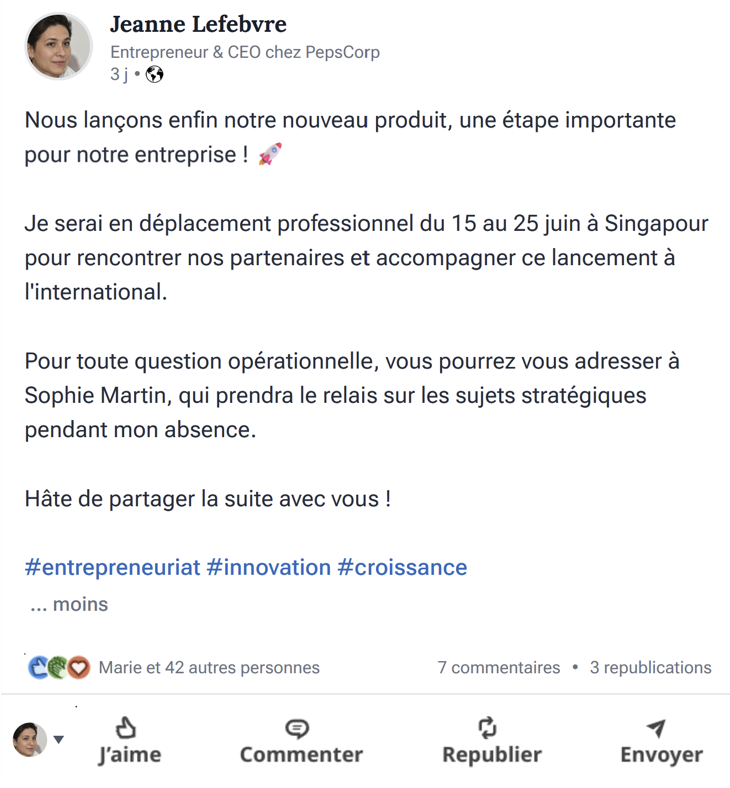
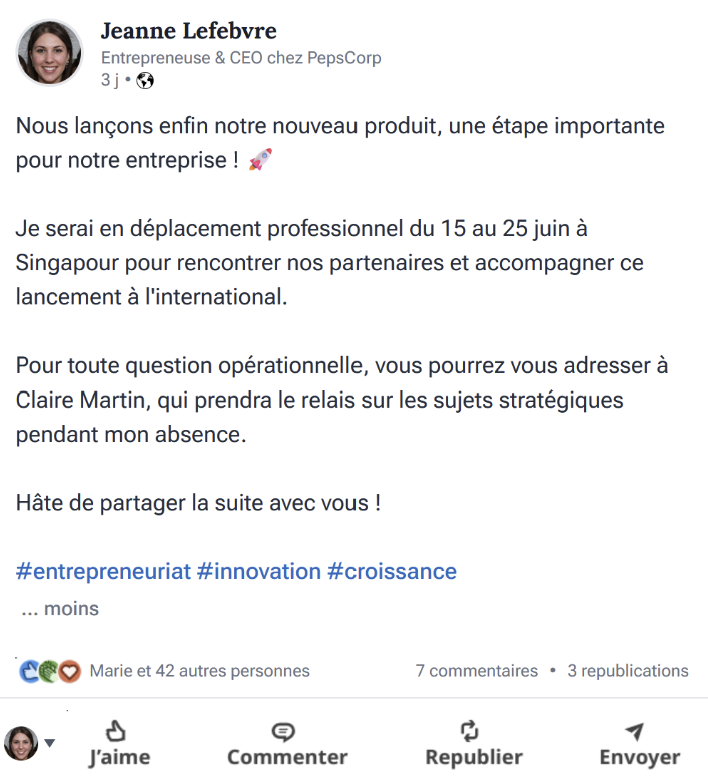
[V2][CORRECTION] hitbox, images et textes des scénarios

diff --git a/src/data/scenarios/scenario3.ts b/src/data/scenarios/scenario3.ts
@@ -7,22 +7,22 @@ import confirmationEmailImage from "../../image/scenario3/mail_phishing_2.png";
 
 export const scenario3: Scenario = {
   id: "director-voice-fraud",
-  title: "La voix du directeur fantôme",
+  title: "La voix de la directrice fantôme",
   description:
-    "L'entreprise PepsCorp est en état d'alerte. Selon les employés présents sur site, une comptable aurait effectué un virement urgent vers un nouveau RIB fournisseur après avoir reçu un appel du directeur lui-même.\n\nLe problème, c'est que le directeur affirme n'avoir jamais passé cet appel. Il était en congé à l'étranger au moment des faits et dit ne pas avoir eu accès à son téléphone professionnel pendant plusieurs heures.\n\nLe service finance est persuadé d'avoir suivi une consigne officielle. Aucun logiciel malveillant n'a été détecté sur le poste de la comptable. Aucun compte administrateur ne semble avoir été compromis.",
+    "L'entreprise PepsCorp est en état d'alerte. Selon les employés présents sur site, la comptable Claire Martin aurait effectué un virement urgent vers un nouveau RIB fournisseur après avoir reçu un appel de la directrice lui-même.\n\nLe problème, c'est que le directeur affirme n'avoir jamais passé cet appel. Il était en congé à l'étranger au moment des faits et dit ne pas avoir eu accès à son téléphone professionnel pendant plusieurs heures.\n\nLa comptable est persuadée d'avoir suivi une consigne officielle. Aucun logiciel malveillant n'a été détecté sur le poste de Claire. Aucun compte administrateur ne semble avoir été compromis.",
   globalAttackScenario:
-    "Mode opératoire probable : l'attaquant a commencé par collecter des informations publiques sur le directeur de PepsCorp. Une publication lui a appris que le dirigeant était en vacances, à l'étranger, et donc potentiellement moins joignable.\n\nIl a ensuite appelé la comptable en se faisant passer pour lui. Le scénario était simple mais efficace : mauvaise connexion, urgence, confidentialité, virement fournisseur et contournement exceptionnel de la procédure.\n\nPendant l'appel, il a envoyé un email contenant une facture et un nouveau RIB pour donner du poids à sa demande. Une fois le virement effectué, il a envoyé un dernier message de confirmation afin de rassurer la comptable et retarder les vérifications.\n\nConclusion de l'enquête : l'attaque n'a pas reposé sur un piratage technique avancé. Elle a reposé sur une usurpation crédible, préparée grâce à des informations publiques et renforcée par une pression psychologique. Le directeur n'a jamais appelé, mais l'attaquant savait exactement comment faire parler son ombre.\n\nBon réflexe à retenir\n\nToute demande de virement, de changement de RIB ou de paiement urgent doit être vérifiée par un canal indépendant et officiel. Il faut refuser les contournements de procédure, même lorsqu'ils semblent venir d'un supérieur hiérarchique.\n\nEn cas de doute, il faut suspendre l'action, contacter la personne via un numéro connu, prévenir un responsable et signaler la tentative.",
+    "Mode opératoire probable : l'attaquant a commencé par collecter des informations publiques sur le directeur de PepsCorp. Une publication lui a appris que le dirigeant était en vacances, à l'étranger, et donc potentiellement moins joignable.\n\nIl a ensuite appelé Claire en se faisant passer pour lui. Le scénario était simple mais efficace : mauvaise connexion, urgence, confidentialité, virement fournisseur et contournement exceptionnel de la procédure.\n\nPendant l'appel, il a envoyé un email contenant une facture et un nouveau RIB pour donner du poids à sa demande. Une fois le virement effectué, il a envoyé un dernier message de confirmation afin de rassurer la comptable et retarder les vérifications.\n\nConclusion de l'enquête : l'attaque n'a pas reposé sur un piratage technique avancé. Elle a reposé sur une usurpation crédible, préparée grâce à des informations publiques et renforcée par une pression psychologique. Le directeur n'a jamais appelé, mais l'attaquant savait exactement comment faire parler son ombre.\n\nBon réflexe à retenir\n\nToute demande de virement, de changement de RIB ou de paiement urgent doit être vérifiée par un canal indépendant et officiel. Il faut refuser les contournements de procédure, même lorsqu'ils semblent venir d'un supérieur hiérarchique.\n\nEn cas de doute, il faut suspendre l'action, contacter la personne via un numéro connu, prévenir un responsable et signaler la tentative.",
   questions: [
     {
       id: "director-public-trip-post",
       title: "La carte postale numérique",
       instruction:
-        "Avant d'interroger les systèmes, vous commencez par vérifier les informations publiques de l'entreprise. La dernière publication du directeur semble anodine. Trop anodine, peut-être.",
+        "Avant d'interroger les systèmes, vous commencez par vérifier les informations publiques de l'entreprise. La dernière publication de la directrice semble anodine. Trop anodine, peut-être.",
       attackScenario:
-        "La publication du directeur voulait simplement montrer un moment de voyage. Mais dans le carnet d'un attaquant, elle devient une fiche de renseignement énorme. Elle révèle une absence, un contexte, des responsabilités et parfois même les personnes à cibler.",
+        "La publication de la directrice voulait simplement montrer un moment de voyage. Mais dans le carnet d'un attaquant, elle devient une fiche de renseignement énorme. Elle révèle une absence, un contexte, des responsabilités et parfois même les personnes à cibler.",
       image: directorLinkedinPostImage,
-      imageWidth: 730,
-      imageHeight: 788,
+      imageWidth: 708,
+      imageHeight: 780,
       hotspots: [
         {
           id: "director-absence-dates",
@@ -32,13 +32,13 @@ export const scenario3: Scenario = {
           height: 40,
           label: "Dates de vacances visibles",
           explanation:
-            "Les dates d'absence du directeur sont publiques. Un attaquant peut s'en servir pour savoir quand il sera difficilement joignable.",
+            "Les dates d'absence de la directrice sont publiques. Un attaquant peut s'en servir pour savoir quand il sera difficilement joignable.",
         },
         {
           id: "director-trip-location",
-          x: 590,
-          y: 205,
-          width: 125,
+          x: 15,
+          y: 245,
+          width: 110,
           height: 40,
           label: "Lieu de vacances visible",
           explanation:
@@ -46,13 +46,13 @@ export const scenario3: Scenario = {
         },
         {
           id: "director-replacement-person",
-          x: 25,
+          x: 15,
           y: 345,
-          width: 625,
+          width: 635,
           height: 110,
           label: "Nom de la personne remplaçante",
           explanation:
-            "Le post indique qui gère certains sujets pendant l'absence du directeur. Pour un attaquant, c'est une piste directe vers la bonne cible.",
+            "Le post indique qui gère certains sujets pendant l'absence de la directrice. Pour un attaquant, c'est une piste directe vers la bonne cible.",
         },
       ],
     },
@@ -60,9 +60,9 @@ export const scenario3: Scenario = {
       id: "fake-director-call-transcript",
       title: "La voix qui pressait le pas",
       instruction:
-        "Comme la comptable dit avoir reçu un appel du directeur, vous regardez donc son historique d'appel pour voir la retranscription texte de l'appel. Elle affirme avoir reconnu le ton du directeur.",
+        "Comme la comptable dit avoir reçu un appel de la directrice, vous regardez donc son historique pour voir la retranscription texte de l'appel. Elle affirme avoir reconnu le ton de la directrice.",
       attackScenario:
-        "L'appel ne contient pas de ligne de code, pas de virus, pas de lien malveillant. Et pourtant, il contient presque tout le mécanisme de l'attaque.\n\nL'attaquant utilise l'absence du directeur, l'urgence, la confidentialité et l'autorité hiérarchique. Il ne force pas le système : il pousse une personne à agir contre la procédure, en lui donnant l'impression d'aider son responsable.",
+        "L'appel ne contient pas de ligne de code, pas de virus, pas de lien malveillant. Et pourtant, il contient presque tout le mécanisme de l'attaque.\n\nL'attaquant utilise l'absence de la directrice, l'urgence, la confidentialité et l'autorité hiérarchique. Il ne force pas le système : il pousse une personne à agir contre la procédure, en lui donnant l'impression d'aider son responsable.",
       image: callTranscriptImage,
       imageWidth: 1103,
       imageHeight: 1426,
@@ -75,7 +75,7 @@ export const scenario3: Scenario = {
           height: 95,
           label: "Prétexte de mauvaise connexion",
           explanation:
-            "Le supposé directeur explique qu'il appelle depuis l'étranger avec peu de réseau. Cela justifie un appel court et limite les possibilités de vérification.",
+            "La supposée directrice explique qu'il appelle depuis l'étranger avec peu de réseau. Cela justifie un appel court et limite les possibilités de vérification.",
         },
         {
           id: "call-big-gain-pressure",
@@ -84,7 +84,7 @@ export const scenario3: Scenario = {
           width: 790,
           height: 75,
           label: "Gros gain",
-          explanation: "Pression forte sur la comptable car gros gain possible.",
+          explanation: "Pression forte sur Claire car gros gain possible.",
         },
         {
           id: "call-urgent-request",
@@ -134,7 +134,7 @@ export const scenario3: Scenario = {
           height: 62,
           label: "Ton hiérarchique et Confirmation demandée après action",
           explanation:
-            "L'attaquant utilise l'autorité supposée du directeur pour réduire la capacité de la comptable à questionner la demande.\n\nL'attaquant veut savoir quand l'opération est terminée. Cela lui permet de suivre l'avancement de la fraude.",
+            "L'attaquant utilise l'autorité supposée de la directrice pour réduire la capacité de la comptable à questionner la demande.\n\nL'attaquant veut savoir quand l'opération est terminée. Cela lui permet de suivre l'avancement de la fraude.",
         },
       ],
     },
@@ -142,7 +142,7 @@ export const scenario3: Scenario = {
       id: "urgent-invoice-with-new-rib",
       title: "La facture tombée pendant l'appel",
       instruction:
-        "La comptable vous montre le mail qu'elle a reçu pendant l'appel. Le timing semble confirmer les paroles du directeur pendant l'appel.",
+        "La comptable vous montre le mail qu'elle a reçu pendant l'appel. Le timing semble confirmer les paroles de la directrice pendant l'appel.",
       attackScenario:
         "Le mail arrive comme une preuve, mais il joue surtout le rôle d'un accessoire. Il donne une forme administrative à l'ordre téléphonique.\n\nL'attaquant sait qu'une demande orale peut sembler fragile. Il ajoute donc une facture, un RIB, une pièce jointe, un ton professionnel. Chaque élément rend l'histoire plus solide, même si l'ensemble repose sur une fausse identité.",
       image: urgentInvoiceEmailImage,
@@ -205,7 +205,7 @@ export const scenario3: Scenario = {
       id: "fraud-confirmation-email",
       title: "La confirmation qui referme le piège",
       instruction:
-        "Après le virement, la comptable aurait reçu un dernier message dans sa boîte mail.",
+        "Après le virement, Claire aurait reçu un dernier message dans sa boîte mail.",
       attackScenario:
         "Le dernier message sert à calmer la victime. Il donne l'impression que l'opération est terminée, validée, maîtrisée. En réalité, il permet surtout à l'attaquant de gagner du temps.",
       image: confirmationEmailImage,

diff --git a/src/data/scenarios/scenario1.ts b/src/data/scenarios/scenario1.ts
@@ -7,7 +7,7 @@ export const scenario1: Scenario = {
   id: "physical-intrusion",
   title: "Intrusion dans les locaux",
   description:
-    "L'entreprise Orialys a subi une intrusion discrète. Des données comptables ont été volés et des virements suspects sur le compte de l'entreprise en direction de pays étrangers ont été détecté. Le servicee informatique ne comprend pas car aucun système de surveillance des comptes n'a identifié d'intrusion ou de virus.\n\nLa seule piste trouvée est que la dernière personne à avoir consulté les dossiers volés est Julien, le nouveau comptable de l'entreprise. Il nie pourtant toutes les accusations. L'entreprise pense donc que son compte a été piraté.",
+    "L'entreprise Orialys a subi une intrusion discrète. Des données comptables ont été volés et des virements suspects sur le compte de l'entreprise en direction de pays étrangers ont été détectés. Le service informatique ne comprend pas car aucun système de surveillance des comptes n'a identifié d'intrusion ou de virus.\n\nLa seule piste trouvée est que la dernière personne à avoir consulté les dossiers volés est Julien, le nouveau comptable de l'entreprise. Il nie pourtant toutes les accusations. L'entreprise pense donc que son compte a été piraté.",
   globalAttackScenario:
     "Mode opératoire probable : l'attaquant découvre la publication LinkedIn présentant Julien. La photo contient des informations sensibles : un mot de passe visible, le système d'exploitation et même des détails personnels (manga, football, rendez-vous médical). L'attaquant utilise ces informations pour préparer une intrusion physique et quelques jours plus tard pendant le rendez-vous médical de Julien, l'attaquant se présente à la porte de l'entreprise en prétendant être un fournisseur. Il repère le bureau de Julien grâce à la photo LinkedIn et déverouille l'ordinateur avec le mot de passe écrit sur le post-it près du clavier. L'attaquant insère une clé USB malveillante et un malware s'installe sur l'ordinateur Windows de Julien permettant de récupérer toutes les informations confidentielles concernant l'entreprise. L'une des plus grandes failles : la négligence humaine combinée à la surexposition d'informations en ligne.\n\nIl a aussi pu récupérer d'autres données plus facilement juste en récupérant la clé USB sur le bureau.\n\nConclusion de l'enquête : l'intrusion n'a pas reposé sur une seule erreur, mais sur une chaîne de petits détails négligés. Une photo trop bavarde, un poste non verrouillé, un mot de passe visible et du matériel accessible peuvent suffire à transformer une simple visite en incident de sécurité.\n\nBon réflexe à retenir\n\nAvant de publier une photo professionnelle, vérifier si aucune information compromettante y est envoyé : mot de passe, habitude d'employés, dates, outils informatiques de l'entreprise...\n\nAvant de quitter son poste, verrouiller sa session. Ne jamais afficher un mot de passe. Garder les documents, téléphones et équipements sensibles hors de portée.",
   questions: [
@@ -15,7 +15,7 @@ export const scenario1: Scenario = {
       id: "linkedin-post-sensitive-data",
       title: "La photo qui en disait trop",
       instruction:
-        "Comme vous essayez de comprendre ce qu'aurait pu faire l'hackeur pour attaquer Orialys, vous allez chercher toutes les informations de l'entreprise trouvable facilement sur internet, à commencer par les réseaux sociaux.\n\nSur le LinkedIn, vous regardez le dernier post fait par Orialys qui vous parait suspect : “Nous souhaitons la bienvenue à notre nouveau comptable Julien Duckey !”",
+        "Comme vous essayez de comprendre ce qu'aurait pu faire l'hackeur pour attaquer Orialys, vous allez chercher toutes les informations de l'entreprise trouvable facilement sur internet, à commencer par les réseaux sociaux.\n\nSur LinkedIn, vous regardez le dernier post fait par Orialys qui vous parait suspect : “Nous souhaitons la bienvenue à notre nouveau comptable Julien Duckey !”",
       attackScenario:
         "La publication avait l'air positive : accueillir un nouveau collègue, montrer la vie de l'entreprise, créer de la proximité. Mais pour un observateur malveillant, elle devient une fiche de renseignement. Nom, rôle, environnement technique, habitudes et centres d'intérêt : chaque détail alimente le dossier de l'attaquant.",
       image: linkedinPostImage,
@@ -78,7 +78,7 @@ export const scenario1: Scenario = {
       id: "abandoned-workstation",
       title: "Le poste abandonné pendant la pause",
       instruction:
-        "Après avoir trouvé ce post problématique, vous retournez dans les locaux d'Orialyspour leur informer la situation. À l'entrée du bâtiment, vous croisez Julien en pause-café, et sur le chemin, vous passez devant son bureau. Vous jetez donc un œil sur son organisation de travail.",
+        "Après avoir trouvé ce post problématique, vous retournez dans les locaux d'Orialys pour les informer de la situation. À l'entrée du bâtiment, vous croisez Julien en pause-café, et sur le chemin, vous passez devant son bureau. Vous jetez donc un œil sur son organisation de travail.",
       attackScenario:
         "Cette scène montre une faille très simple : l'absence de verrouillage, une clé USB en libre accès. L'attaque ne nécessite pas toujours une technique avancée. Dans certains cas, l'accès commence par un bureau laissé ouvert et un mot de passe affiché à la vue de tous.",
       image: desktopImage,

diff --git a/src/data/scenarios/scenario4.ts b/src/data/scenarios/scenario4.ts
@@ -21,15 +21,15 @@ export const scenario4: Scenario = {
       attackScenario:
         "Le post voulait simplement se plaindre des transports. Mais dans le carnet d'un attaquant, il devient une traque. Il donne un lieu, une date et une cible pour atteindre une entreprise. L'attaquant peut juste aller à cette gare et à attendre Cédric pour le suivre et l'espionner.",
       image: socialPostImage,
-      imageWidth: 485,
-      imageHeight: 638,
+      imageWidth: 822,
+      imageHeight: 976,
       hotspots: [
         {
           id: "commute-place-visible",
-          x: 8,
-          y: 76,
-          width: 455,
-          height: 44,
+          x: 430,
+          y: 100,
+          width: 140,
+          height: 50,
           label: "Lieu du déplacement visible",
           explanation:
             "Sur l'image on distingue clairement où il se situe. Cela peut faire référence à une gare qu'il utilise souvent",
@@ -37,9 +37,9 @@ export const scenario4: Scenario = {
         {
           id: "commute-daily-work-complaint",
           x: 8,
-          y: 116,
-          width: 450,
-          height: 74,
+          y: 150,
+          width: 600,
+          height: 40,
           label: "Plainte de ne pas aller travailler",
           explanation:
             "Dans son commentaire, il se plaint de ne pas pouvoir aller travailler. On comprend donc qu'il utilise ce transport tous les jours pour aller travailler",
@@ -50,7 +50,7 @@ export const scenario4: Scenario = {
       id: "working-in-public-transport",
       title: "Le travail dans le train",
       instruction:
-        "Pour retracer son parcours avant le vol de document, Cédric vous montre tous ses trajets. Pendant ce déplacement, Cédric vous informe qu'il doit absolument travailler parce qu'avec toute cette histoire, il a pris du retard sur son travail. Il se met donc à travailler à côté de vous.",
+        "Pour retracer son parcours avant le vol de documents, Vous prenez les transports avec Cédric. Pendant ce déplacement, Cédric vous informe qu'il doit absolument travailler parce qu'avec toute cette histoire, il a pris du retard sur ses tâches. Il se met donc à travailler à côté de vous.",
       attackScenario:
         "Ici, l'attaquant n'a pas besoin de malware. Il lui suffit d'un angle de vue, d'un appareil photo discret ou d'une personne inattentive.\n\nLe travail nomade est pratique, mais il transforme parfois les transports en salle de réunion ouverte ou en vol facile. Un document confidentiel affiché dans un train n'est plus seulement entre les mains du prestataire, il est potentiellement devant tout le wagon.",
       image: trainWorkTempImage,
@@ -94,7 +94,7 @@ export const scenario4: Scenario = {
       id: "wrong-wifi-network",
       title: "La fin du trajet",
       instruction:
-        "Arrivé sur place, Cédric nous informe qu'il était arrivé en retard à sa réunion à cause d'un énième problème de transport. Il dit s'être donc connecté rapidement au Wi-Fi disponible. Vous regardez donc son historique Wi-fi.",
+        "Arrivé sur place, Cédric nous informe qu'il était en retard à sa réunion à cause d'un énième problème de transport. Il dit s'être donc connecté rapidement au Wi-Fi disponible. Vous regardez donc son historique Wi-Fi.",
       attackScenario:
         "Le mauvais Wi-Fi n'a pas besoin d'avoir un nom effrayant. Au contraire, il doit avoir l'air banal. Il doit ressembler au réseau que tout le monde choisit sans réfléchir.\n\nDans une enquête cyber, les faux-semblants sont souvent les meilleurs déguisements. Ici, le réseau suspect ne force personne à entrer. Il attend qu'on le choisisse.",
       image: wifiListImage,
@@ -103,20 +103,20 @@ export const scenario4: Scenario = {
       hotspots: [
         {
           id: "wifi-similar-network-names",
-          x: 590,
-          y: 505,
-          width: 350,
-          height: 45,
+          x: 940,
+          y: 395,
+          width: 250,
+          height: 40,
           label: "Réseaux Wi-Fi aux noms très proches",
           explanation:
             "Plusieurs réseaux ont des noms presque identiques. Un attaquant peut créer un faux réseau ressemblant au vrai pour piéger les utilisateurs pressés.",
         },
         {
           id: "wifi-open-network",
-          x: 580,
-          y: 550,
-          width: 530,
-          height: 150,
+          x: 940,
+          y: 430,
+          width: 470,
+          height: 120,
           label: "Réseau non sécurisé",
           explanation:
             "Un réseau ouvert ou mal protégé augmente les risques d'interception ou de redirection vers de fausses pages.",

diff --git a/src/data/scenarios/scenario2.ts b/src/data/scenarios/scenario2.ts
@@ -9,7 +9,7 @@ export const scenario2: Scenario = {
   id: "phishing-inbox-melanie",
   title: "La boite mail de Mélanie",
   description:
-    "Mélanie, assistante administrative, a reçu plusieurs emails de tentatives de connexion non identifiés dans la même journée sur plusieurs de des compte clientdeservice en ligne : UPS, Amazon, Sephora et Decathlon. Le lendemain, une tentative de connexion inhabituelle est détectée sur le compte de Mélanie dans le service interne.\n\nDétective, vous examinez la boîte mail de Mélanie. Vous découvrez des messages suspectsd'entreprises auxquels Mélanie a reçu les tentatives de connexion.",
+    "Mélanie, assistante administrative, a reçu plusieurs emails de tentatives de connexion non identifiées dans la même journée sur plusieurs de ses comptes client de service en ligne : UPS, Amazon, Sephora et Decathlon. Le lendemain, une tentative de connexion inhabituelle est détectée sur le compte de Mélanie dans le service interne.\n\nDétective, vous examinez la boîte mail de Mélanie. Vous y découvrez des messages suspects.",
   globalAttackScenario:
     "Mode opératoire probable : l'attaquant a bombardé Mélanie avec plusieurs appâts différents dans la même journée. Livraison urgente, cadeau, offre limitée, marque connue. Ce qui a dû la pousser, avec l'appât du gain,à cliquer sur ces faux liens et à remplir des informations personnelles.L'hacker a donc pu récolter ses informations et les a utilisées pour se connecter sur les sites de base. Chaque message teste une émotion différente.\n\nConclusion de l'enquête : le phishing ne repose pas seulement sur des fautes ou des emails grossiers. Il repose surtout sur la pression, la curiosité, la récompense et l'habitude. Le bon réflexe consiste à vérifier l'expéditeur, éviter les liens directs, passer par les sites officiels et signaler les messages douteux.\n\nBon réflexe à retenir\n\nAvant de cliquer, vérifier l'adresse réelle de l'expéditeur, l'URL, le contexte de la demande et le niveau d'urgence. En cas de doute, ne pas cliquer : signaler ou passer par un canal officiel.",
   questions: [
@@ -195,7 +195,7 @@ export const scenario2: Scenario = {
     {
       id: "sephora-clumsy-personalization",
       title: "Le Coffret",
-      instruction: "Un dernier mail suspect concerne une offre Sephora suspecte.",
+      instruction: "Un dernier mail concerne une offre Sephora suspecte.",
       attackScenario:
         "Le message tente de paraître personnel, mais il sonne faux. Dans une attaque réelle, même une personnalisation approximative peut suffire si la victime est fatiguée, pressée ou habituée à recevoir beaucoup d'emails commerciaux.",
       image: emailPhishingSephoraImage,
